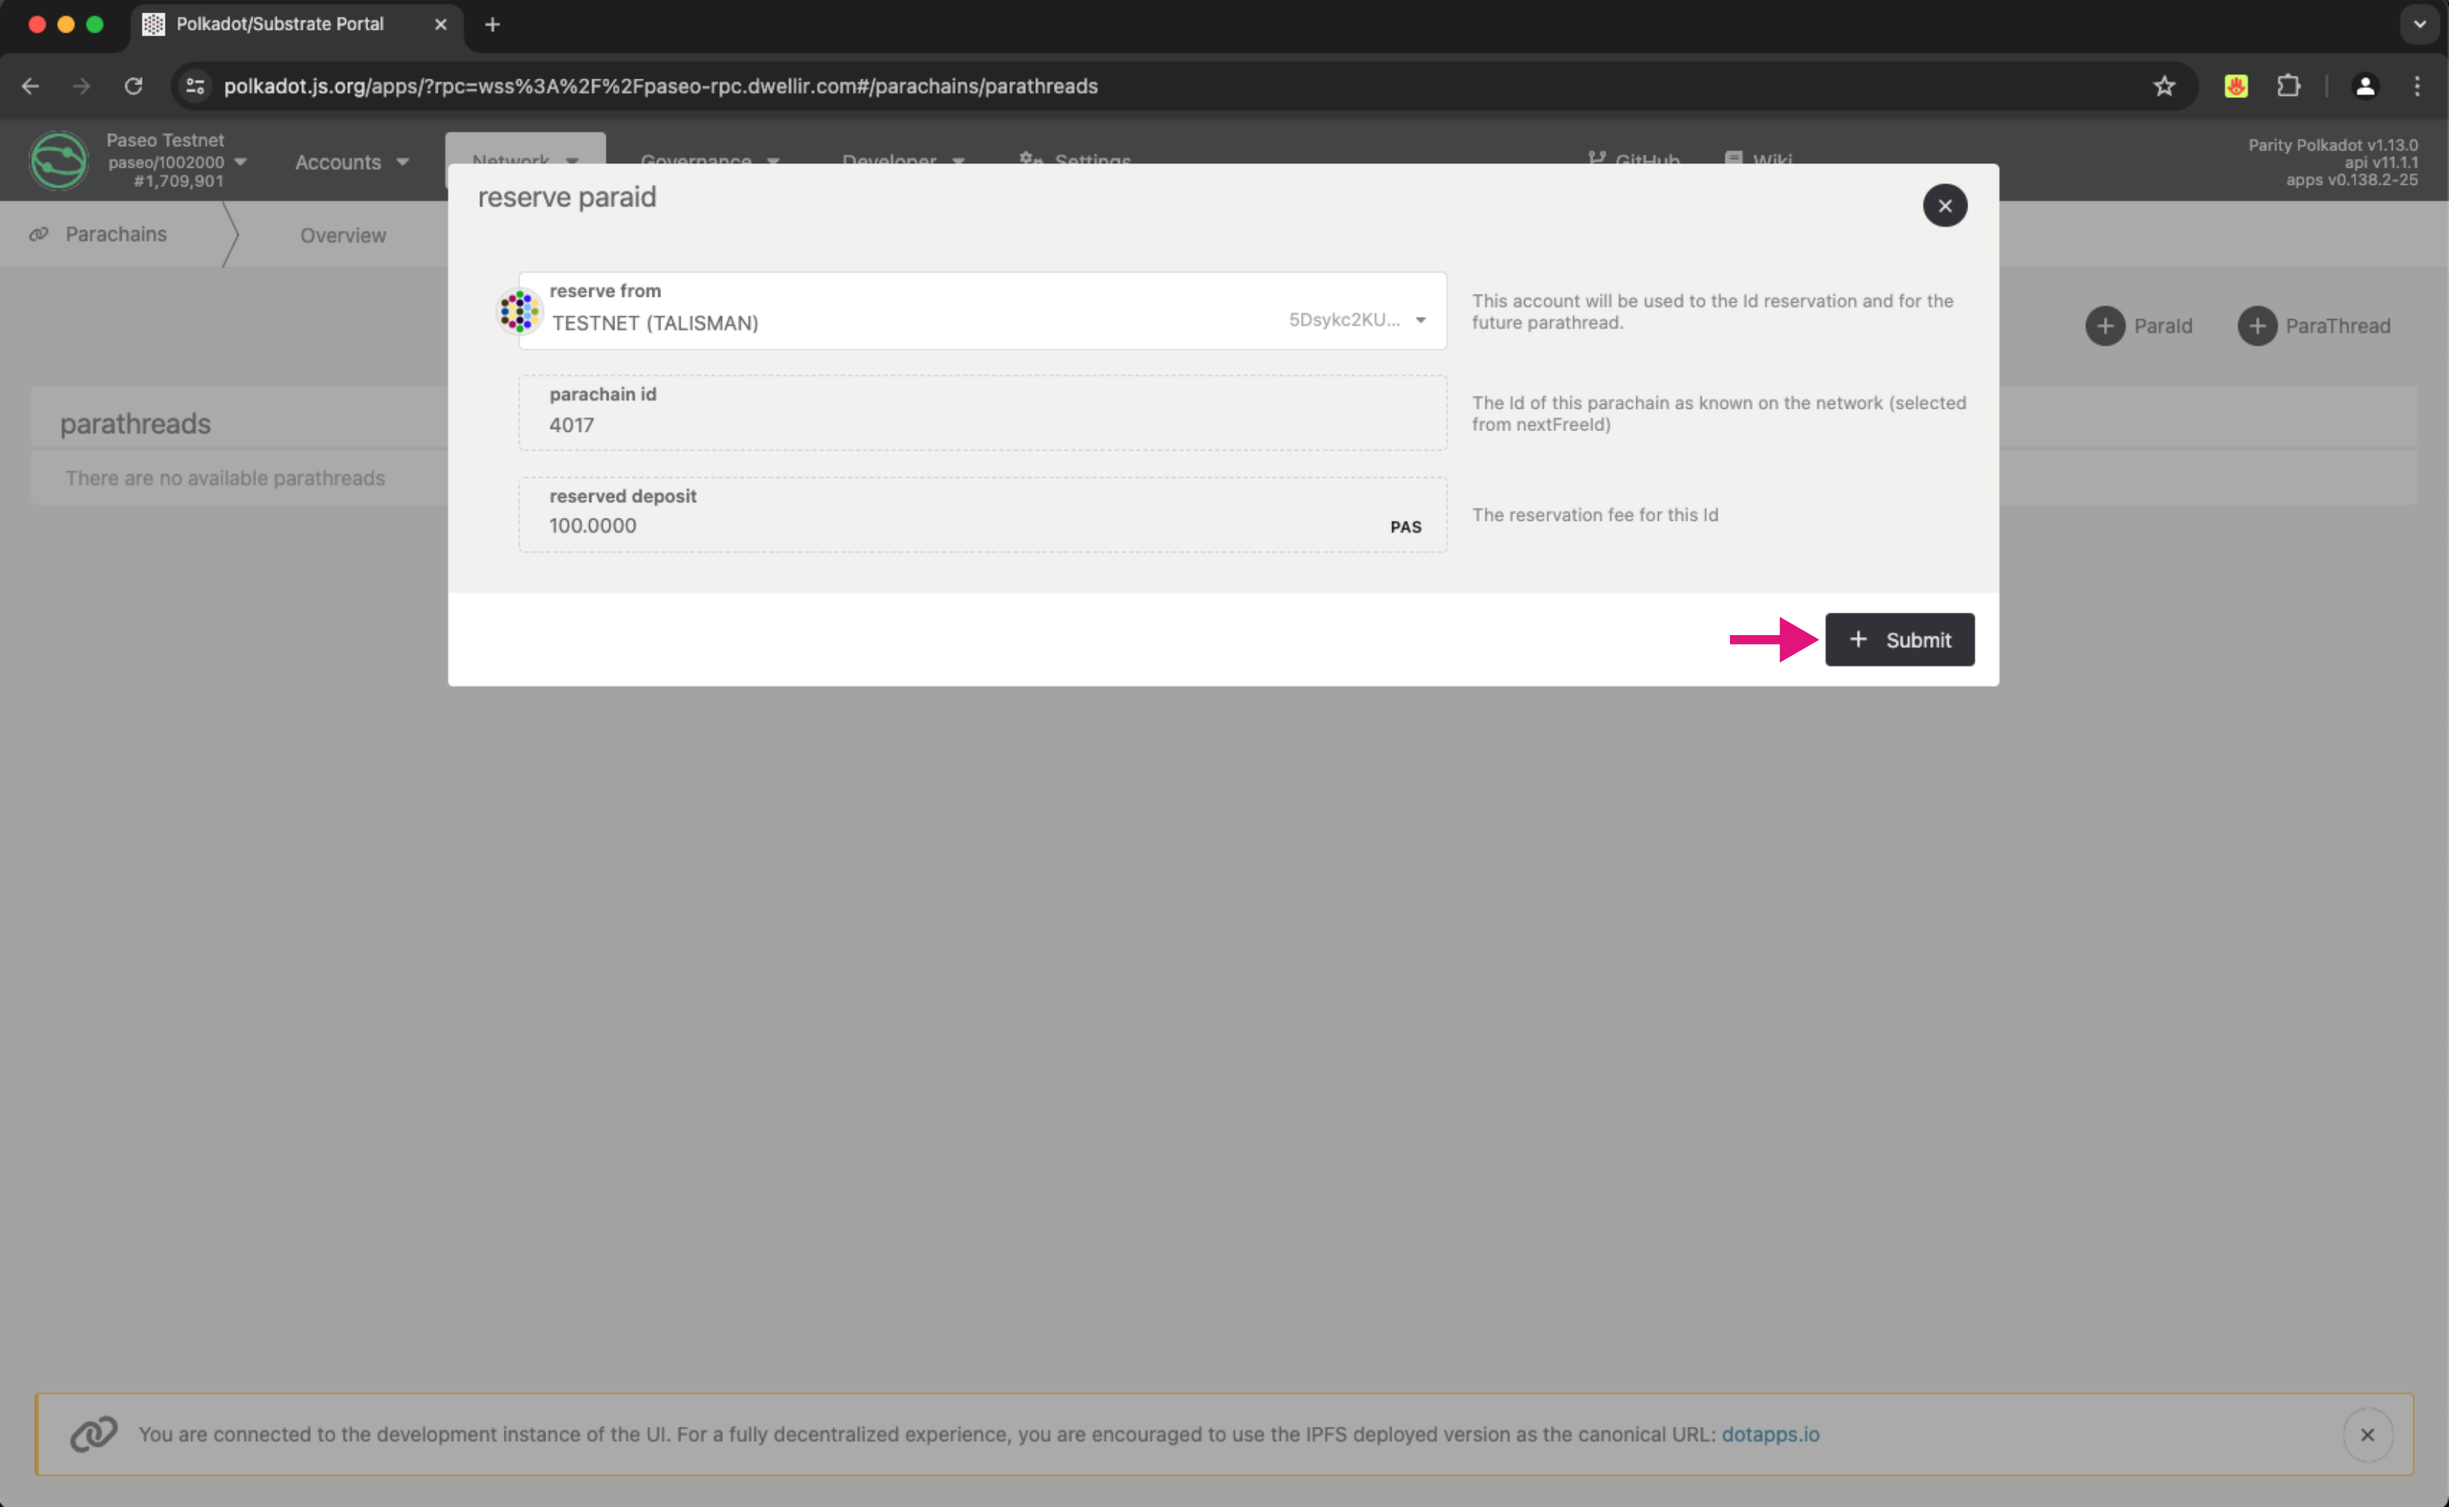
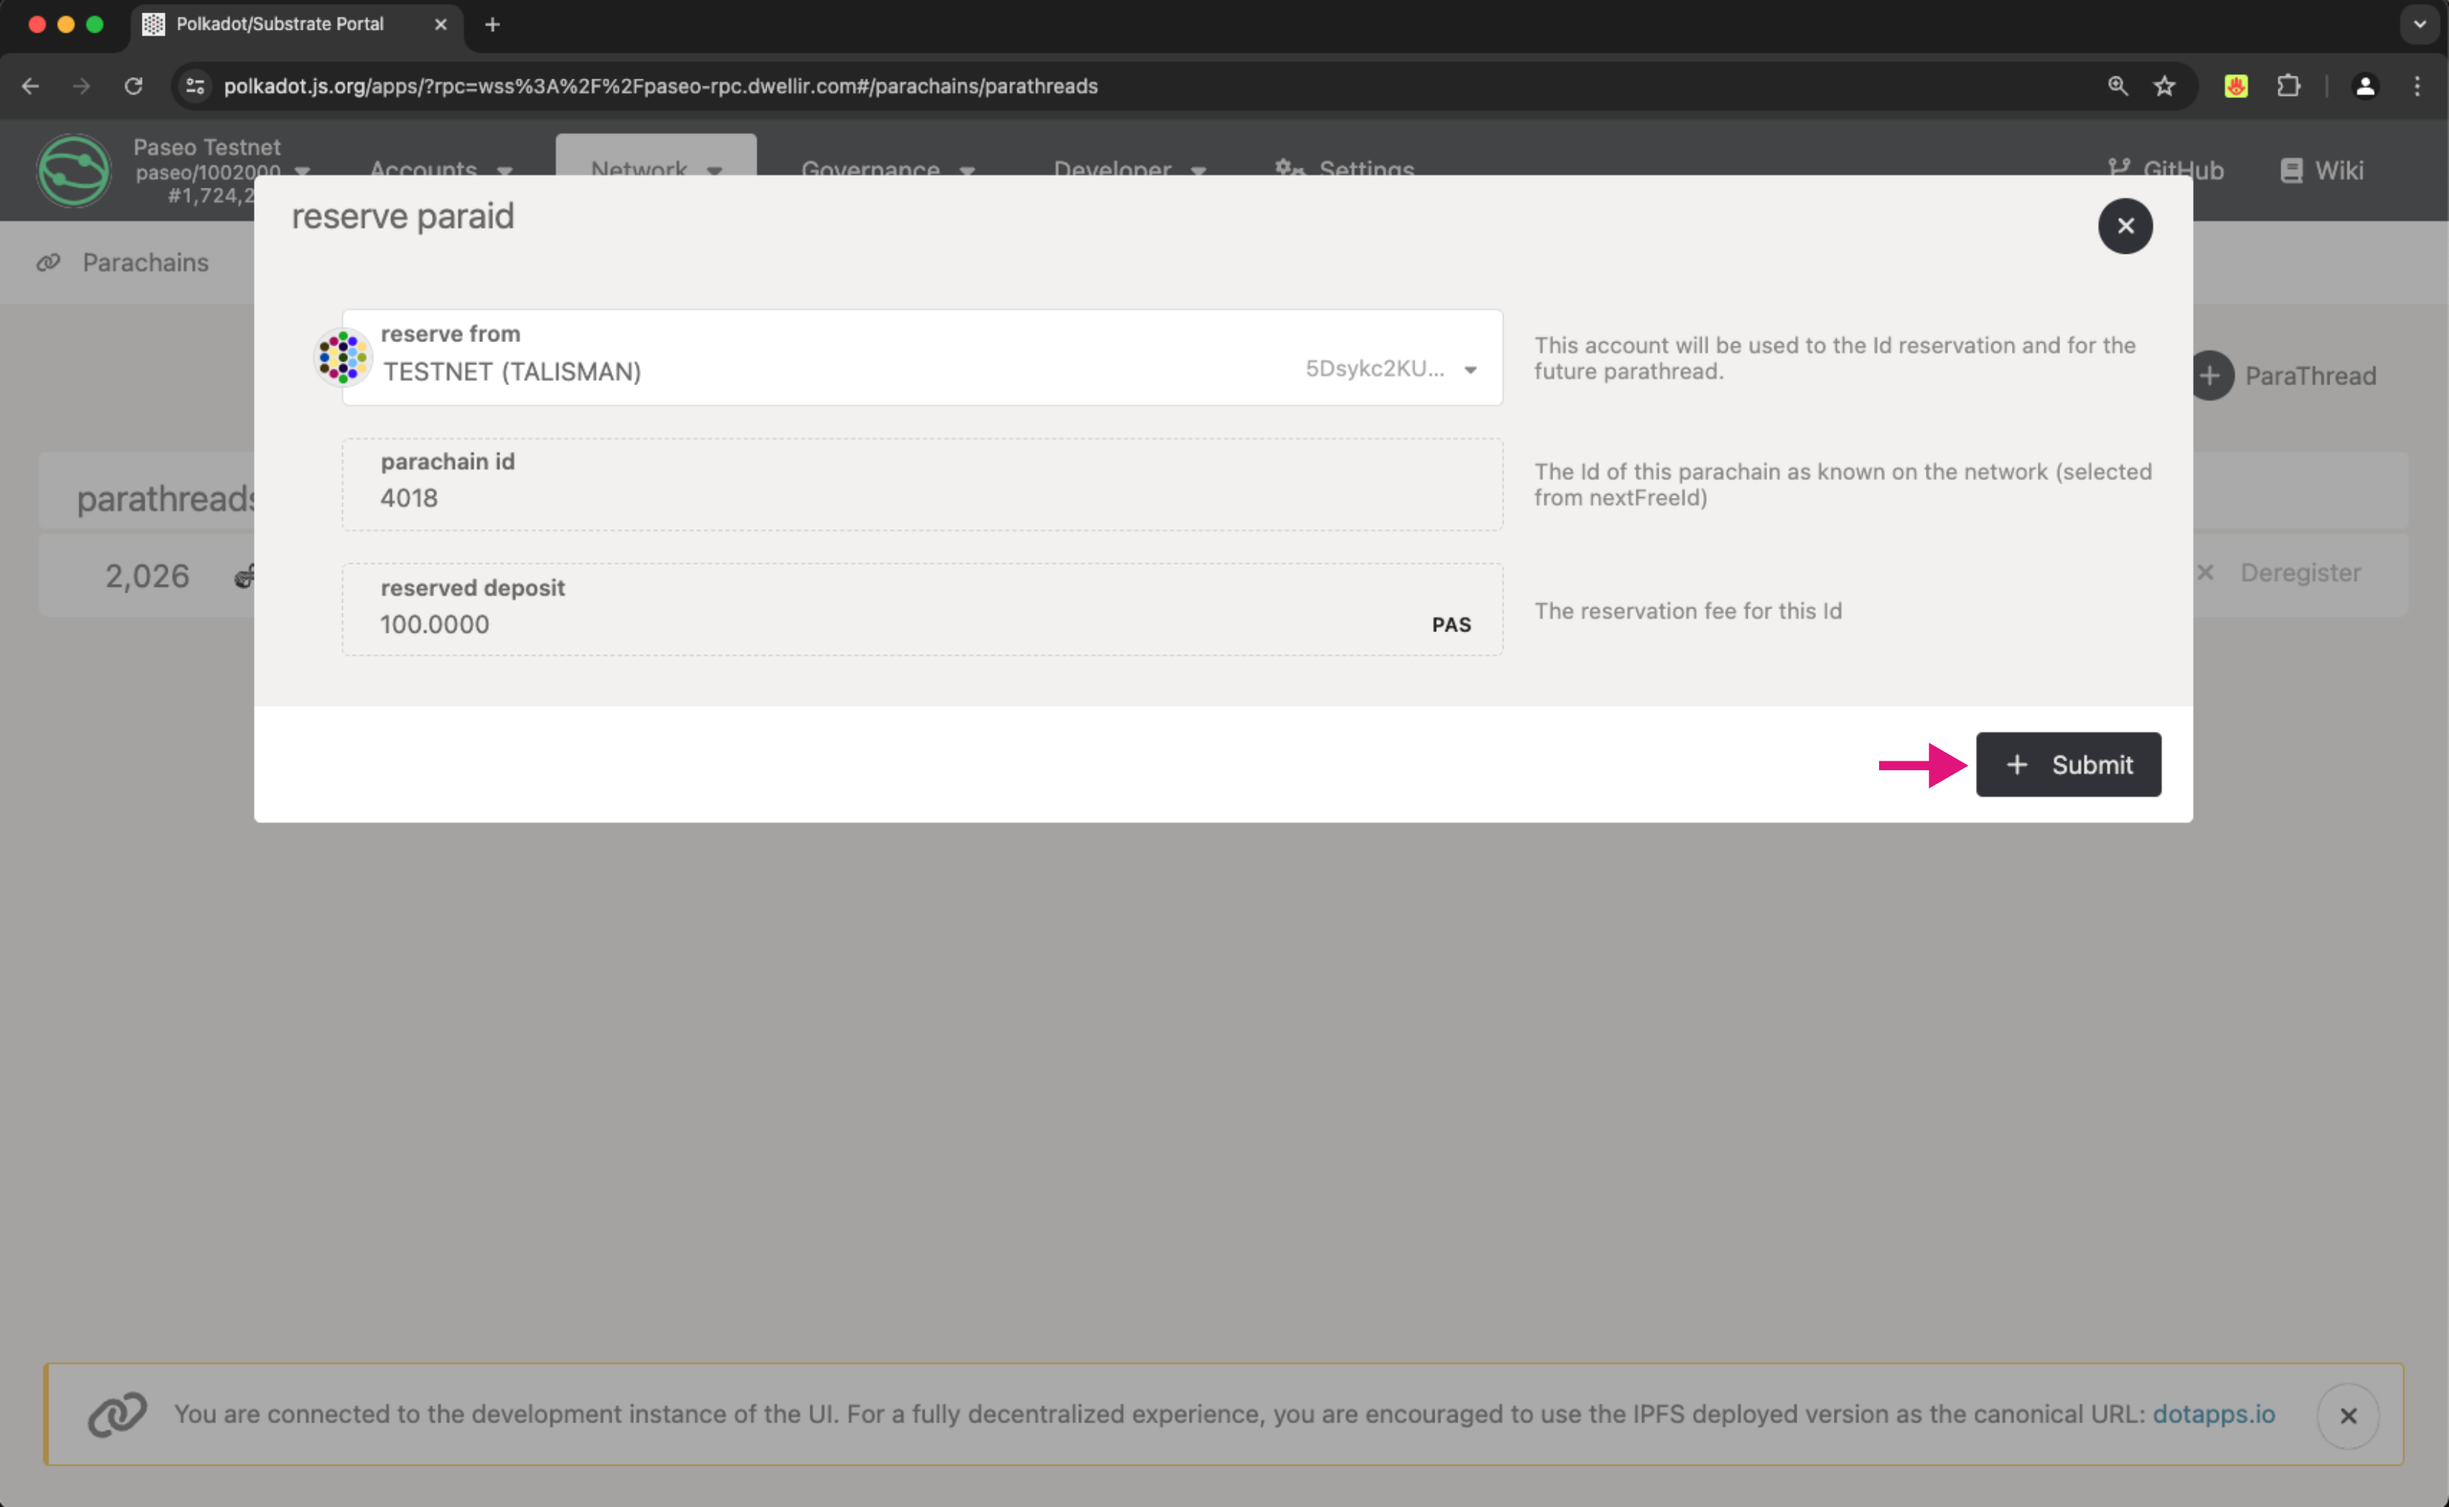
Replace screenshots to 125% zoom in

Changed region(s): [[0.0, 0.062, 1.0, 0.5583], [0.0, 0.8996, 0.9364, 0.9926], [0.5306, 0.1861, 0.5618, 0.2482]]

diff --git a/docs/paseo-testnet/onboarding.md b/docs/paseo-testnet/onboarding.md
@@ -43,7 +43,7 @@ To deploy your parachain, you'll first need to reserve a unique Parachain ID on 
     ![Parachain reservation form](/images/paseo-testnet/onboarding/onboarding-3.webp)
 
     !!! note
-        In this example, the Parachain ID assigned is 4017.
+        In this example, the Parachain ID assigned is 4018.
 
 ## Generate and Customize the Chainspec
 
@@ -82,7 +82,7 @@ cargo build --release
             "tokenSymbol": "UNIT"
         },
         "relay_chain": "paseo",
-        "para_id": 4017,
+        "para_id": 4018,
         "codeSubstitutes": {},
         "genesis": {
             "runtimeGenesis": {
@@ -91,7 +91,7 @@ cargo build --release
                     "balances": {...},
                     "collatorSelection": {...},
                     "parachainInfo": {
-                        "parachainId": 4017
+                        "parachainId": 4018
                     },
                     "polkadotXcm": {
                         "safeXcmVersion": 4
